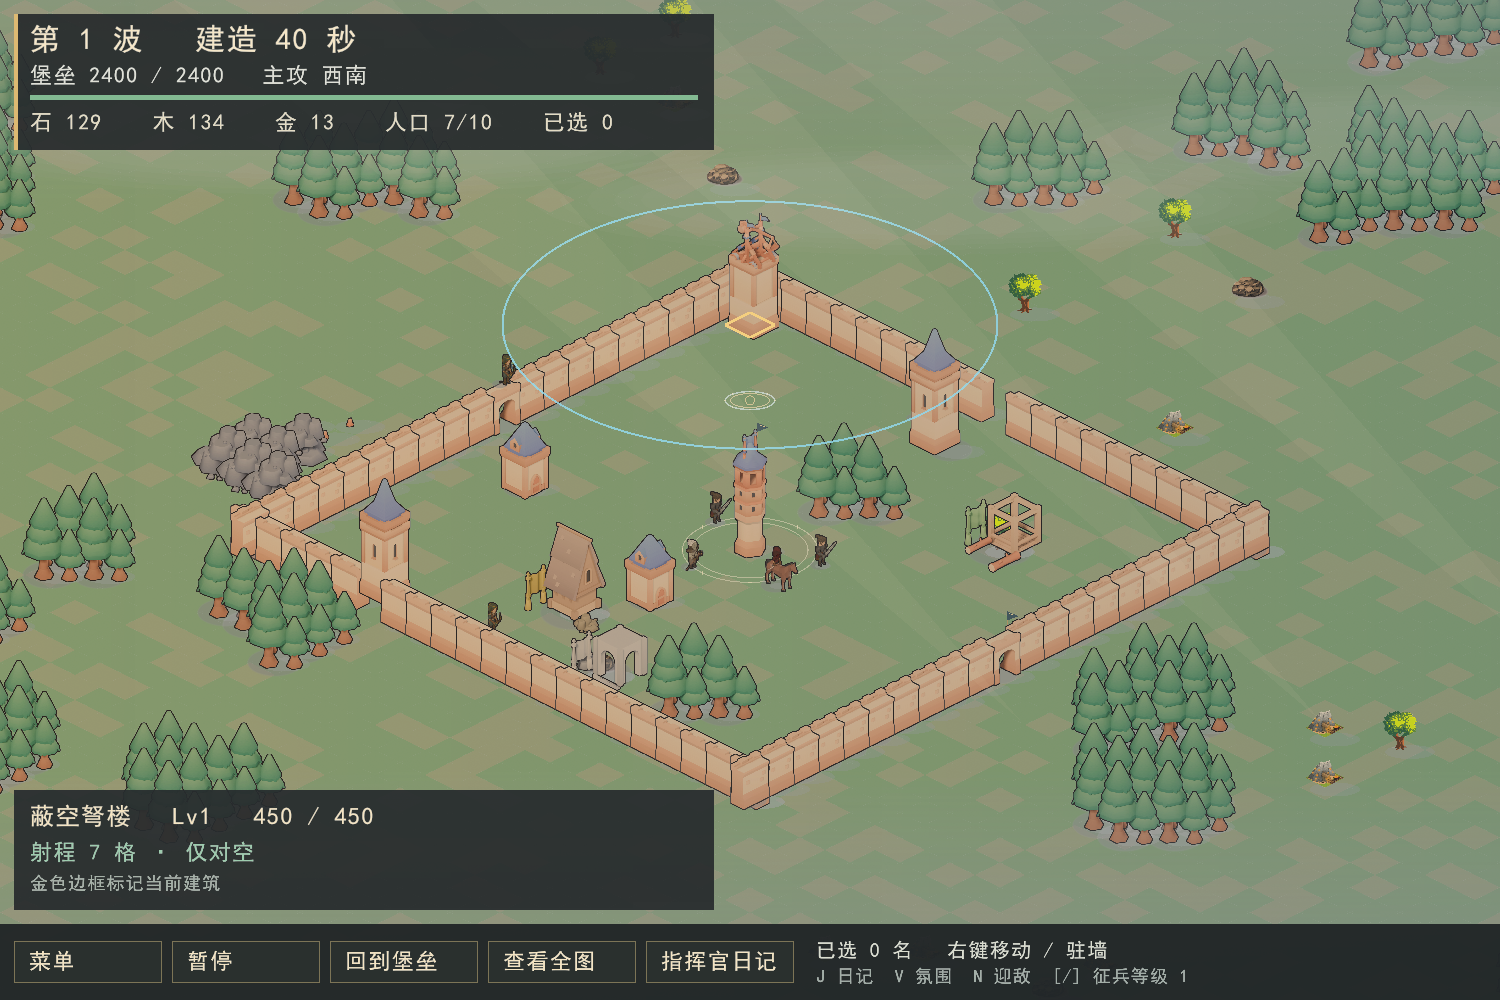
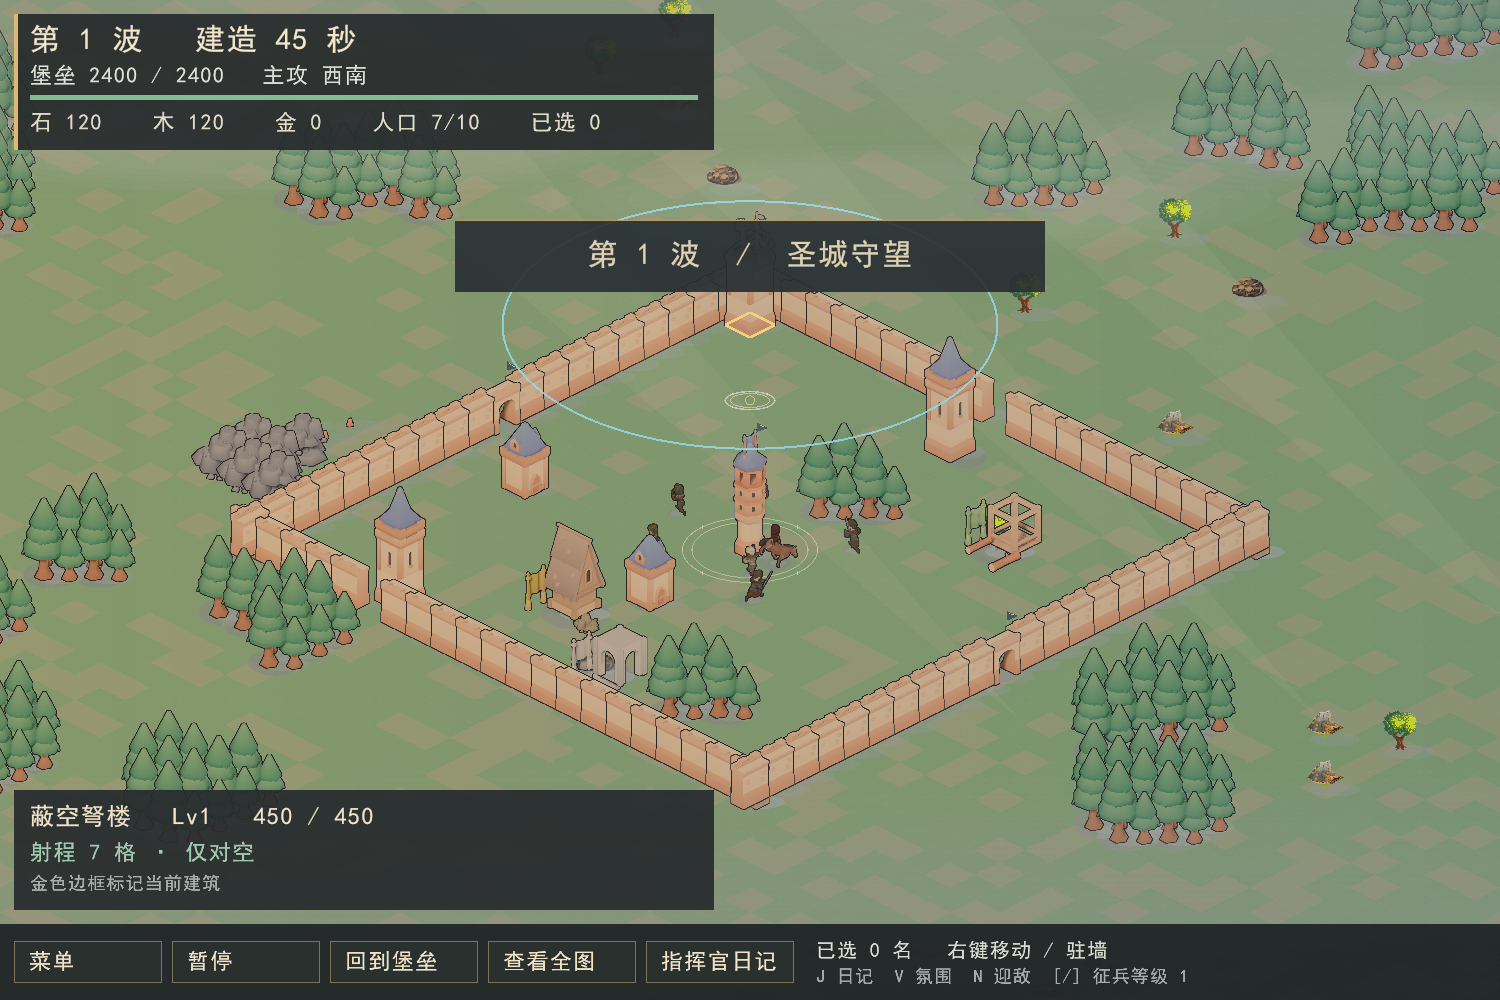
fix: align tower foundations across idle and attack sprites

diff --git a/tools/sprite_gen/blender_render.py b/tools/sprite_gen/blender_render.py
@@ -856,6 +856,10 @@ def render_entry(ident, spec, base_dir, out_dir, px_per_tile, margin, dirs):
                       spec.get("max_width", 1.45), spec.get("kind") == "tile",
                       spec.get("modules"))
 
+    # Stacked towers stand on the first base part, not the weapon-biased bounds.
+    if "ground_reference" in spec:
+        pivot["ground_reference"] = tuple(spec["ground_reference"])
+
     # 子网格的逐帧变换要在归一化之后收集（静止量含归一化后的缩放），
     # 且必须在取景之前——撞木伸出去那一帧决定了画布该多宽。
     mesh_rest = collect_mesh_anim(objs, spec["mesh_anim"]) if spec.get("mesh_anim") else []

diff --git a/tools/sprite_gen/postprocess.py b/tools/sprite_gen/postprocess.py
@@ -228,7 +228,8 @@ def main():
                 # 顺序不可颠倒：先描边，再把投影合成到描边之下。
                 # 反过来的话投影自己也会被描边，变成带黑边的独立圆盘。
                 img = add_outline(img, ol_col, ol_w)
-                img = add_shadow(img, specs.get(ident, {}), ratio, st.get("ground_anchor"))
+                anchor = st.get("ground_anchor_by_facing", {}).get(dr, st.get("ground_anchor"))
+                img = add_shadow(img, specs.get(ident, {}), ratio, anchor)
                 save_marked(img, os.path.join(outdir, fn))
         counts[ident] = counts.get(ident, 0) + 1
         if state != "idle":

diff --git a/docs/battle-fixes.md b/docs/battle-fixes.md
@@ -5,6 +5,7 @@
 | 问题 | 修复 |
 |---|---|
 | 城门略微浮空、城圈四角接不上 | 城墙和城门读取逐朝向地面锚点，修正 NE 方向的竖直错位；沿用原有拐角双墙板，保持破墙后真实缺口 |
+| 箭楼/弩楼底座偏离格子 | 分别校准待机和攻击状态的底座中心；选中边框、射程圈与楼体落在同一格，弹丸出口跟随校准 |
 | 开局箭楼/弩楼挡门 | 门内三格、横向三格预留通道；生成器避免在通道放箭楼，加载旧池图时把挡路的防御塔确定性移到附近城内空地；运行时补充弩楼也避开通道 |
 | 弩楼攻击贴图未应用 | 读取建筑真实前摇与冷却，播放已有四帧攻击图；前摇结束时进入素材声明的释放帧 |
 | 箭/弩矢发射位置偏低 | 弹丸保存发射原点，渲染从逐朝向的箭孔/弩臂出口平滑过渡到目标高度；不改伤害命中坐标 |
@@ -20,6 +21,8 @@
 原模型规范化后，旋转仍绕带偏移的 Pivot；NE 朝向的实际脚底偏离元数据记录的世界原点。按原 GLB 包围盒中心与相机投影计算，256 像素格宽时，Wall 的 NE 锚点 Y 应增加 32，Gate 应减少 23.68。二者原先相反方向的误差叠加，既造成门槛浮空，也造成转角错位。
 
 `_sprite_meta.json` 新增 `ground_anchor_by_facing` 和 `muzzle_by_facing`，像素值仍只由素材元数据提供。SpriteAtlas、Python 预览同步读取；Blender 生成器会输出实际脚底逐朝向投影，素材清单保存出口标记的归一化坐标。当前 PNG 保持原样；没有在本机重新运行 Blender。
+
+塔楼叠装模型的武器会偏移整体包围盒中心，因此 Tower/Flak 改用第一层基座的原点作为生成时的落地参考。现有图片按底座菱形轮廓校准：Tower 两状态均为 (184, 696)，Flak 待机 (227, 705)、攻击 (238.5, 757)。所有朝向与帧的底座尖端相对锚点一致，精度约为 2 个素材像素（游戏缩放后不足 1 像素）；生成器的后处理阴影也读取对应朝向的锚点。
 
 建筑动画使用 `impact_frame`，前摇阶段不提前播放释放帧。弹丸原点随压缩数组一起保留、复制和回收，并参与世界哈希。箭楼范围仍为 7；弩楼调整为同样的 7，面积覆盖增加较明显，后续应根据真人试玩观察防空强度。
 
@@ -42,7 +45,7 @@
 
 ## 本次验证结果
 
-Release 构建成功；全套 CTest 85/85 通过。随后把弩楼目标放到旧 5 格射程之外，专项测试再次通过（4 个用例、62 个断言）。素材生成相关 Python 文件通过语法检查。已目视检查标准地图门墙接合、四角、两个塔楼范围，以及真实前摇/释放/飞行截图。尚未做多名真人的长局平衡对比。
+Release 构建成功；全套 CTest 85/85 通过。随后把弩楼目标放到旧 5 格射程之外，专项测试再次通过（4 个用例、62 个断言）。素材生成相关 Python 文件通过语法检查。已目视检查标准地图门墙接合、四角、两个塔楼范围，以及真实前摇/释放/飞行截图。追加底座校准后，三项武器/射程渲染测试再次通过，并检查了实际截图。尚未做多名真人的长局平衡对比。
 
 ![蔽空弩楼射程和城墙接合](battle-fixes/flak-range.png)
 
